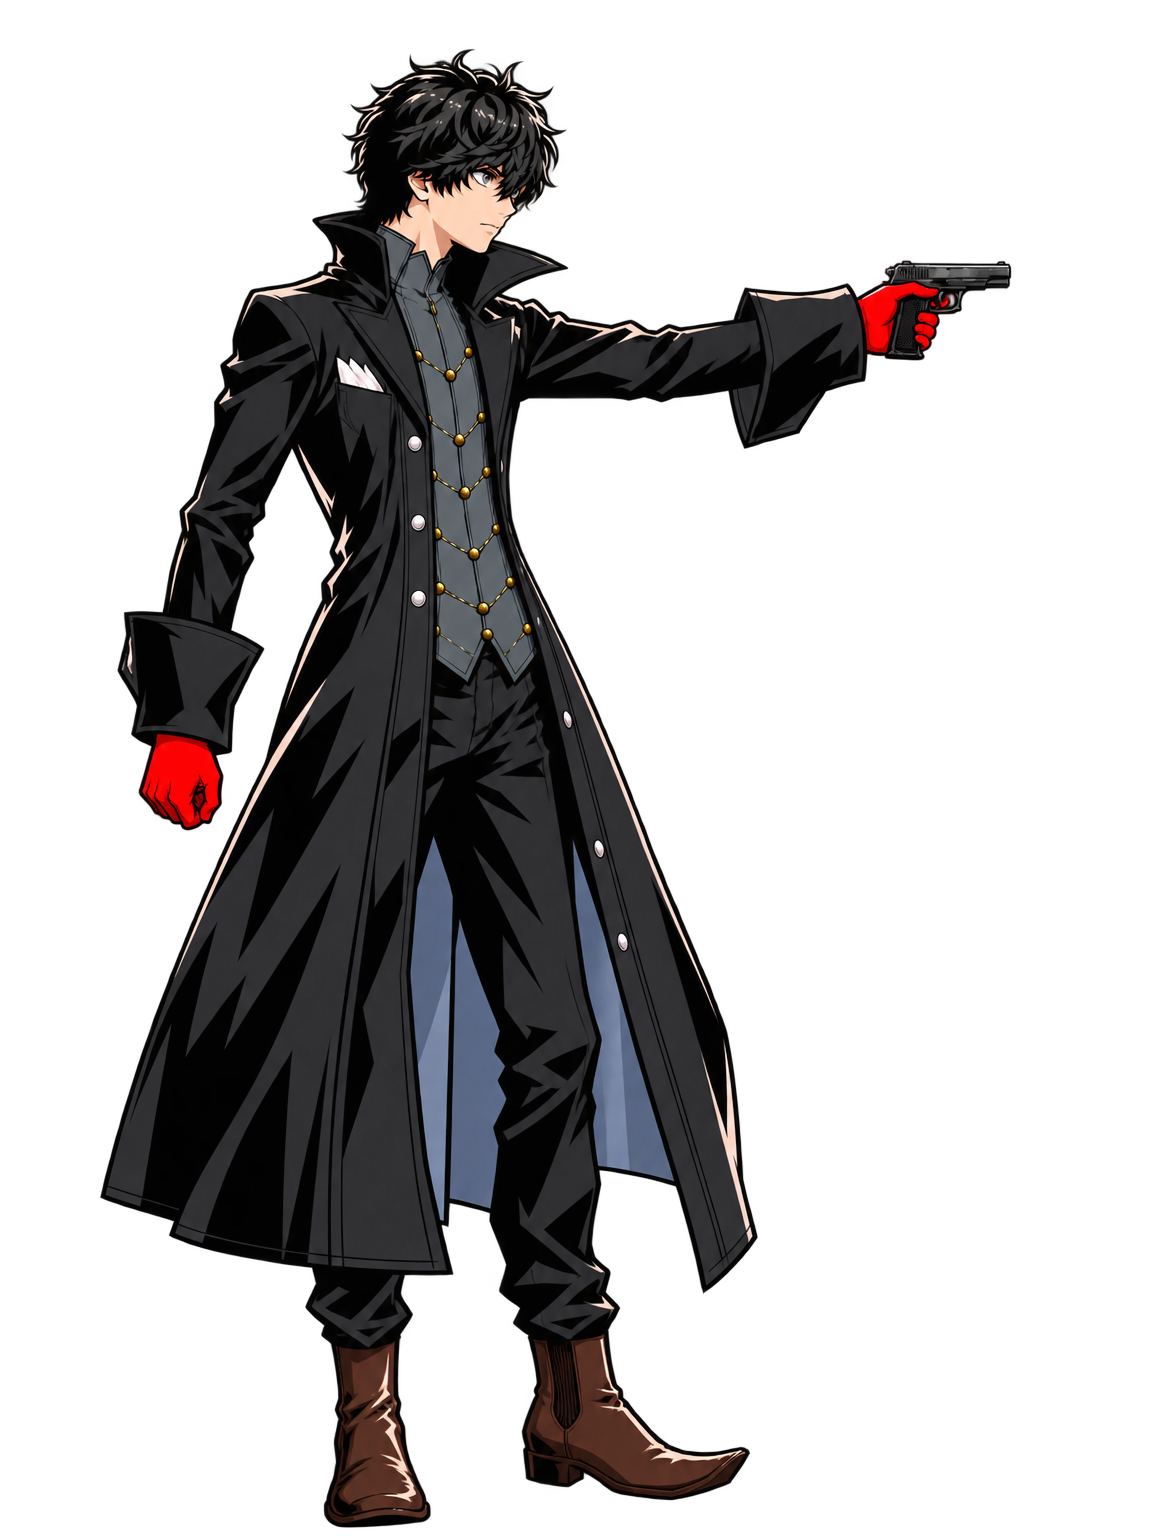
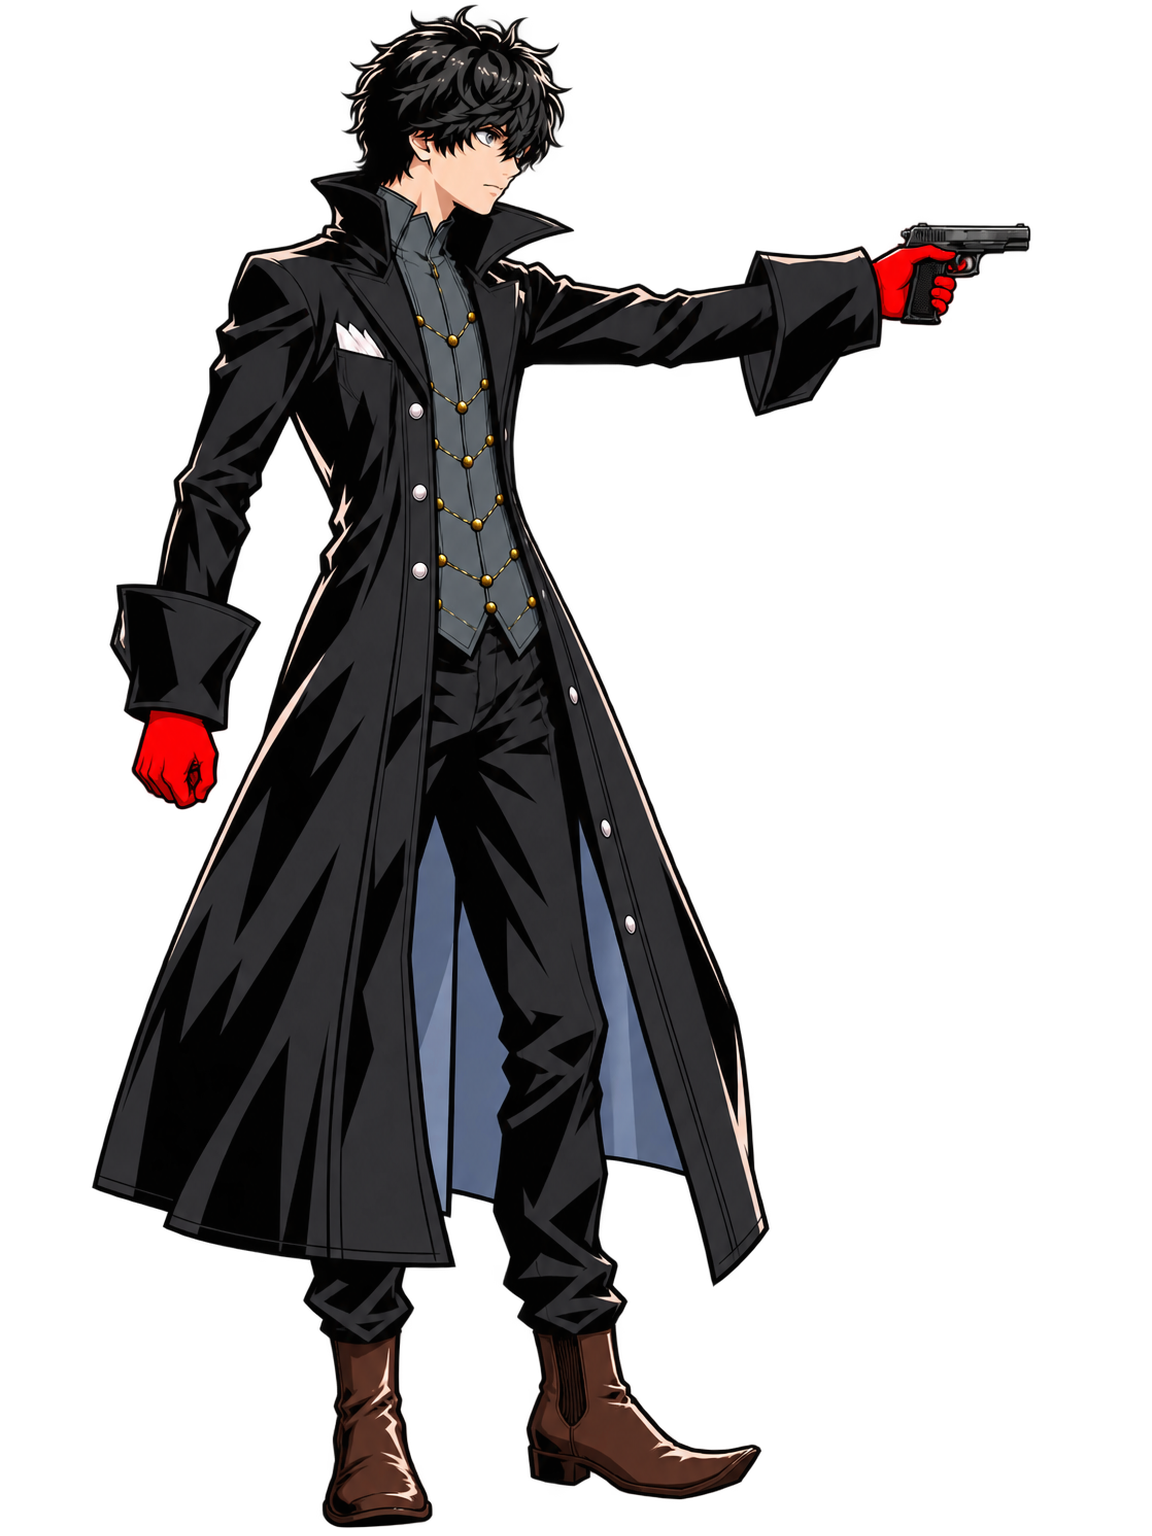
art: P5 gun frames scaled to idle body length; consistency check reports body length
Claude-Session: https://claude.ai/code/session_01Nam5m2bn9ofCCWTGM6fwcN

Changed region(s): [[0.0625, 0.0, 0.9062, 1.0]]

diff --git a/tools/p5/pose_consistency.py b/tools/p5/pose_consistency.py
@@ -8,6 +8,8 @@ Names are files in art/p5/poses/ (without .png). It writes art/p5/poses/check_<f
 (all frames side by side at the same scale, with guide lines) and prints, for each frame vs the base:
 head height ratio (hair top to chin), boot height / width ratios (boots are rigid, so they show the
 scale, but change with the foot angle, so they are for reference) and how far each foot moved.
+Body length (chin to sole) more than 2.5% off is marked (check): fine for crouching frames, but for
+standing frames it means the body is drawn smaller - normalize_poses.py scales it to match.
 FAIL when the head is off by more than 5% - redraw that frame from the base image, do not rescale
 it by hand. Small leftover scale / foot offsets are fixed afterwards by normalize_poses.py.
 """
@@ -21,6 +23,7 @@ from normalize_poses import boots  # noqa: E402
 
 P = Path(__file__).resolve().parents[2] / 'art/p5/poses'
 HEAD_TOL = 0.05
+BODY_TOL = 0.025
 
 
 def boot_dims(a):
@@ -53,21 +56,37 @@ def head_height(a):
     return ys.max() - np.nonzero(band.max(1) > 128)[0].min()
 
 
+def body_length(a):
+    """Chin to the lowest sole: the body below the head. A frame can match the head and still be short."""
+    from scipy import ndimage
+    r, g, b, al = (a[..., i] for i in range(4))
+    skin = (al > 200) & (r > 215) & (g > 170) & (g < 230) & (b > 140) & (b < 210) & (r - b > 30)
+    skin[700:] = False
+    lab, k = ndimage.label(skin)
+    i = int(np.argmax(ndimage.sum(skin, lab, range(1, k + 1)))) + 1
+    chin = np.nonzero(lab == i)[0].max()
+    return np.nonzero(al.max(1) > 128)[0].max() - chin
+
+
 def main():
     names = sys.argv[1:]
     ims = [Image.open(P / f'{n}.png').convert('RGBA') for n in names]
     arrs = [np.array(im).astype(int) for im in ims]
-    base_b, base_f, base_h = boot_dims(arrs[0]), boots(arrs[0]), head_height(arrs[0])
+    base_b, base_f, base_h, base_l = boot_dims(arrs[0]), boots(arrs[0]), head_height(arrs[0]), body_length(arrs[0])
     ok = True
     for n, a in zip(names[1:], arrs[1:]):
         bd, f = boot_dims(a), boots(a)
         hr = np.mean([x[0] / y[0] for x, y in zip(bd, base_b)])
         wr = np.mean([x[1] / y[1] for x, y in zip(bd, base_b)])
         hh = head_height(a) / base_h
+        bl = body_length(a) / base_l
         moves = [int(np.hypot(x[0] - y[0], x[1] - y[1])) for x, y in zip(f, base_f)]
-        bad = abs(hh - 1) > HEAD_TOL  # boots change with the foot angle, so they are shown for reference only
+        # boots change with the foot angle, so they are shown for reference only; body length only counts
+        # for standing frames (crouches / kneels are legitimately shorter), so it is a warning, not a FAIL
+        bad = abs(hh - 1) > HEAD_TOL
+        warn = abs(bl - 1) > BODY_TOL
         ok &= not bad
-        print(f"{n:18s} head x{hh:.3f}  boot height x{hr:.3f}  boot width x{wr:.3f}  feet moved {moves} px  {'FAIL' if bad else 'ok'}")
+        print(f"{n:18s} head x{hh:.3f}  body x{bl:.3f}{' (check)' if warn else ''}  boot height x{hr:.3f}  boot width x{wr:.3f}  feet moved {moves} px  {'FAIL' if bad else 'ok'}")
     w = 360
     sheet = Image.new('RGBA', (w * len(ims), 540 + 24), (210, 210, 210, 255))
     d = ImageDraw.Draw(sheet)

diff --git a/tools/p5/normalize_poses.py b/tools/p5/normalize_poses.py
@@ -19,12 +19,12 @@ REF = 'idle_a3'
 PAD = 64  # final canvas is 64 px wider on each side, so flared coats never get cut off
 # name -> (scale, foot that stays planted relative to idle: 'rear' = image-left, 'front' = image-right,
 # 'mid' = midpoint between the feet, for poses that step both feet).
-# Scales are set by hand from head width (hair, measured on crops) and boot size against idle_a3;
+# Scales are set by hand from head size and body length (chin to sole, for standing frames) against idle_a3;
 # automatic head measurement is unreliable because raised black sleeves touch the hair.
 POSES = {'idle_a3': (1.0, 'rear'), 'guard_a2': (1.0, 'front'), 'knife_ready_a': (0.96, 'rear'),
          'slash_a3': (0.96, 'mid'), 'slash_follow_a': (0.96, 'mid'),
          'slash_mid_a': (0.96, 'mid'), 'slash_smear_a3': (0.96, 'mid'), 'guard_mid_a': (1.0, 'front'),
-         'gun_a2': (1.0, 'rear'), 'gun_raise_a2': (1.0, 'rear'), 'gun_recoil_a6': (1.0, 'rear')}
+         'gun_a2': (1.03, 'rear'), 'gun_raise_a2': (1.03, 'rear'), 'gun_recoil_a6': (1.045, 'rear')}
 
 
 def load(n):
